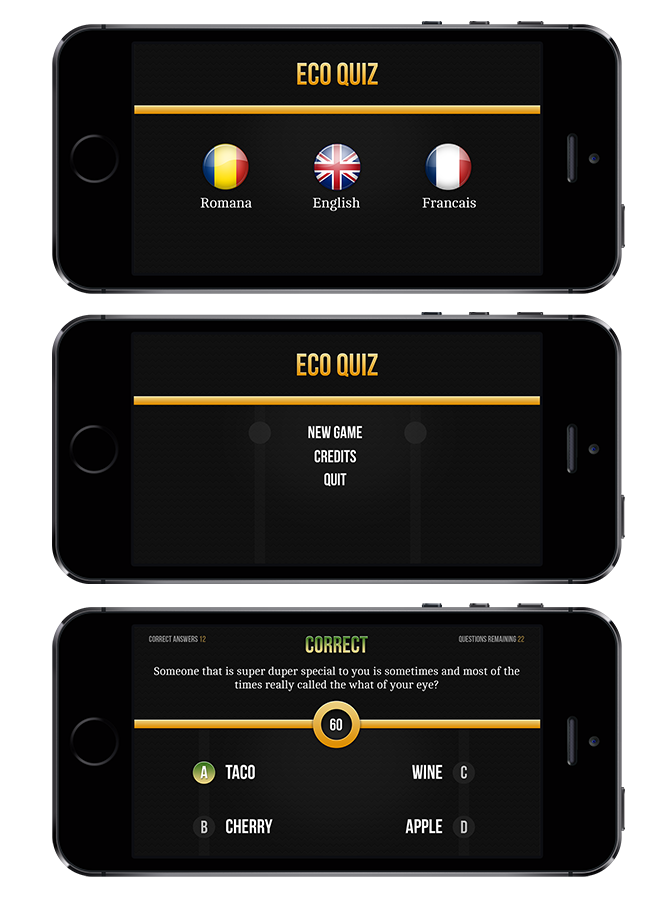
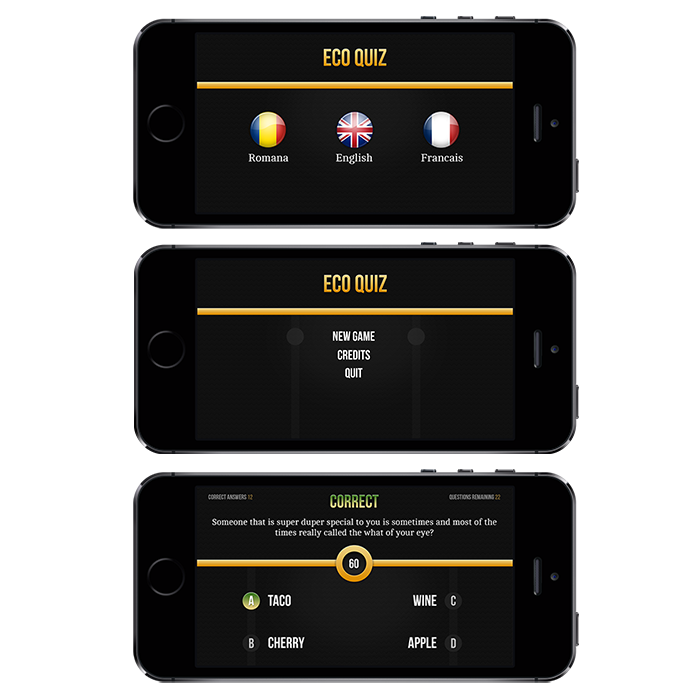
fixed the small width problem for graphic slider

diff --git a/css/styles.css b/css/styles.css
@@ -1506,44 +1506,53 @@ body {
     width: 100%;
   }
 }
+@media all and (max-width: 550px) {
+  /* line 302, ../sass/partials/_query.scss */
+  .graphic_slider .slick_slider div img {
+    max-width: default;
+    width: 80%;
+    height: auto;
+    max-height: 100%;
+  }
+}
 @media all and (max-width: 350px) {
   /* HEADER */
-  /* line 300, ../sass/partials/_query.scss */
+  /* line 316, ../sass/partials/_query.scss */
   .profession {
     width: 80%;
   }
 
   /* CONTENT */
-  /* line 305, ../sass/partials/_query.scss */
+  /* line 321, ../sass/partials/_query.scss */
   .type_of_work h2 {
     padding: 14px 0px 14px 0px;
     font-size: 24px;
     font-size: 2.4rem;
   }
 
-  /* line 310, ../sass/partials/_query.scss */
+  /* line 326, ../sass/partials/_query.scss */
   .slide_info {
     height: 93px;
     font-size: 12px;
     font-size: 1.2rem;
   }
 
-  /* line 314, ../sass/partials/_query.scss */
+  /* line 330, ../sass/partials/_query.scss */
   .logo_container h3 {
     padding: 20px 0px 20px 0px;
   }
-  /* line 316, ../sass/partials/_query.scss */
+  /* line 332, ../sass/partials/_query.scss */
   .logo_container h3 span {
     top: 16px;
     font-size: 12px;
     font-size: 1.2rem;
   }
 
-  /* line 321, ../sass/partials/_query.scss */
+  /* line 337, ../sass/partials/_query.scss */
   .bottom_divider {
     height: 40px;
   }
-  /* line 323, ../sass/partials/_query.scss */
+  /* line 339, ../sass/partials/_query.scss */
   .bottom_divider h3 {
     font-size: 12px;
     font-size: 1.2rem;
@@ -1551,17 +1560,17 @@ body {
   }
 
   /* FOOTER */
-  /* line 330, ../sass/partials/_query.scss */
+  /* line 346, ../sass/partials/_query.scss */
   .footer_section h2 {
     text-align: center;
   }
 
-  /* line 336, ../sass/partials/_query.scss */
+  /* line 352, ../sass/partials/_query.scss */
   .footer_skills .skill_list {
     text-align: center;
   }
 
-  /* line 341, ../sass/partials/_query.scss */
+  /* line 357, ../sass/partials/_query.scss */
   .social_contact li {
     min-width: 50px;
   }

diff --git a/sass/partials/_query.scss b/sass/partials/_query.scss
@@ -294,6 +294,22 @@ height: auto;
 }
 // ------------------------------------------------------
 }
+@media all and ( max-width: 550px ) {
+// ------------------------------------------------------
+.graphic_slider {
+	.slick_slider {
+		div {
+			img {
+				max-width: default;
+				width: 80%;
+				height: auto;
+				max-height: 100%;
+			}
+		}
+	}
+}
+// ------------------------------------------------------
+}
 @media all and ( max-width: 350px ) {
 // ------------------------------------------------------
 /* HEADER */
